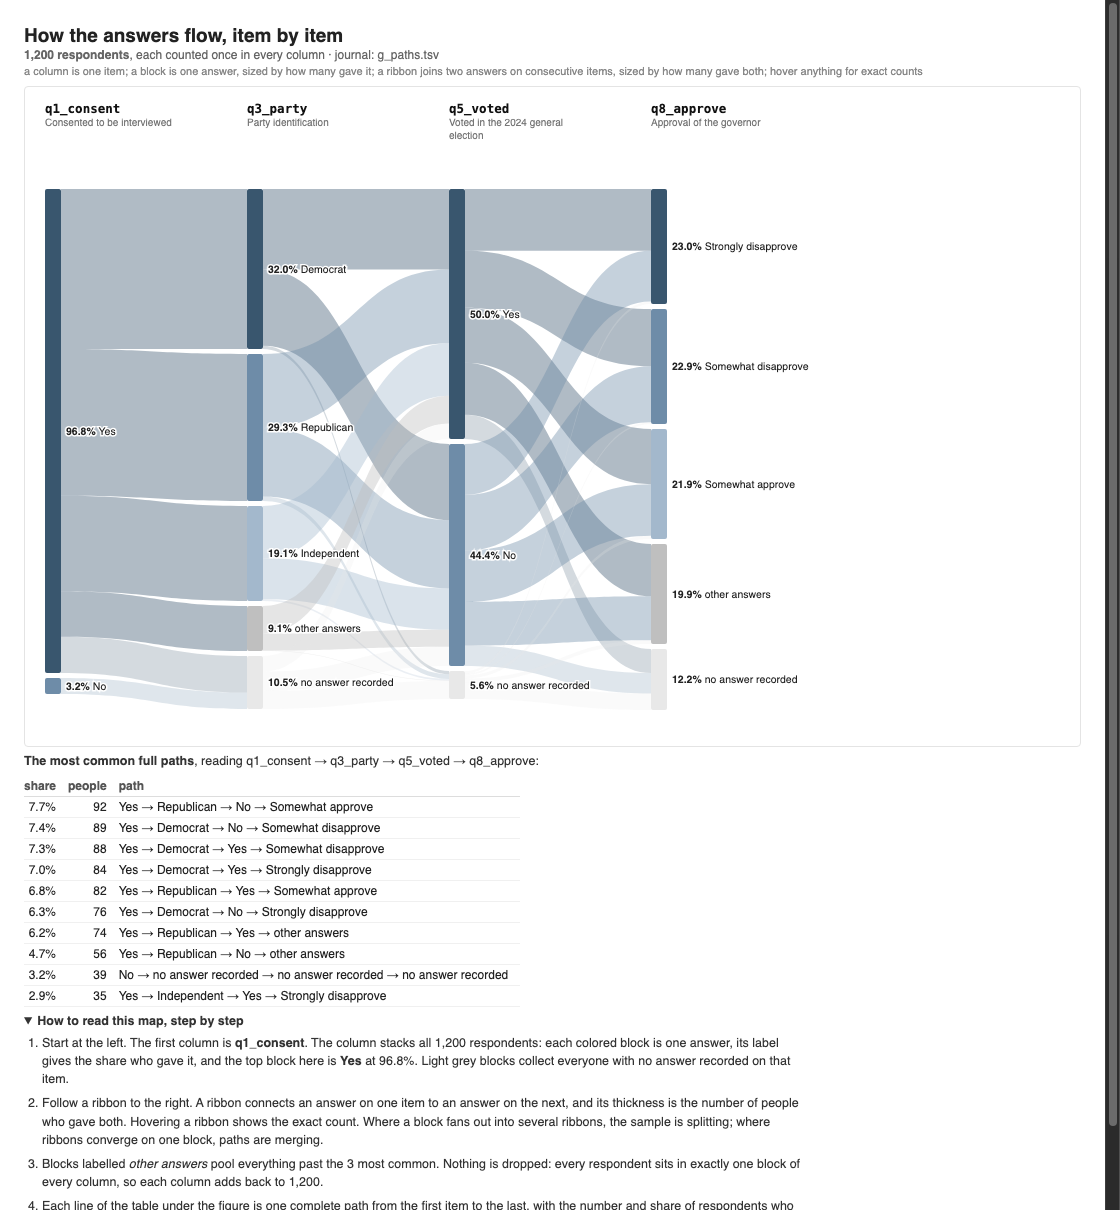
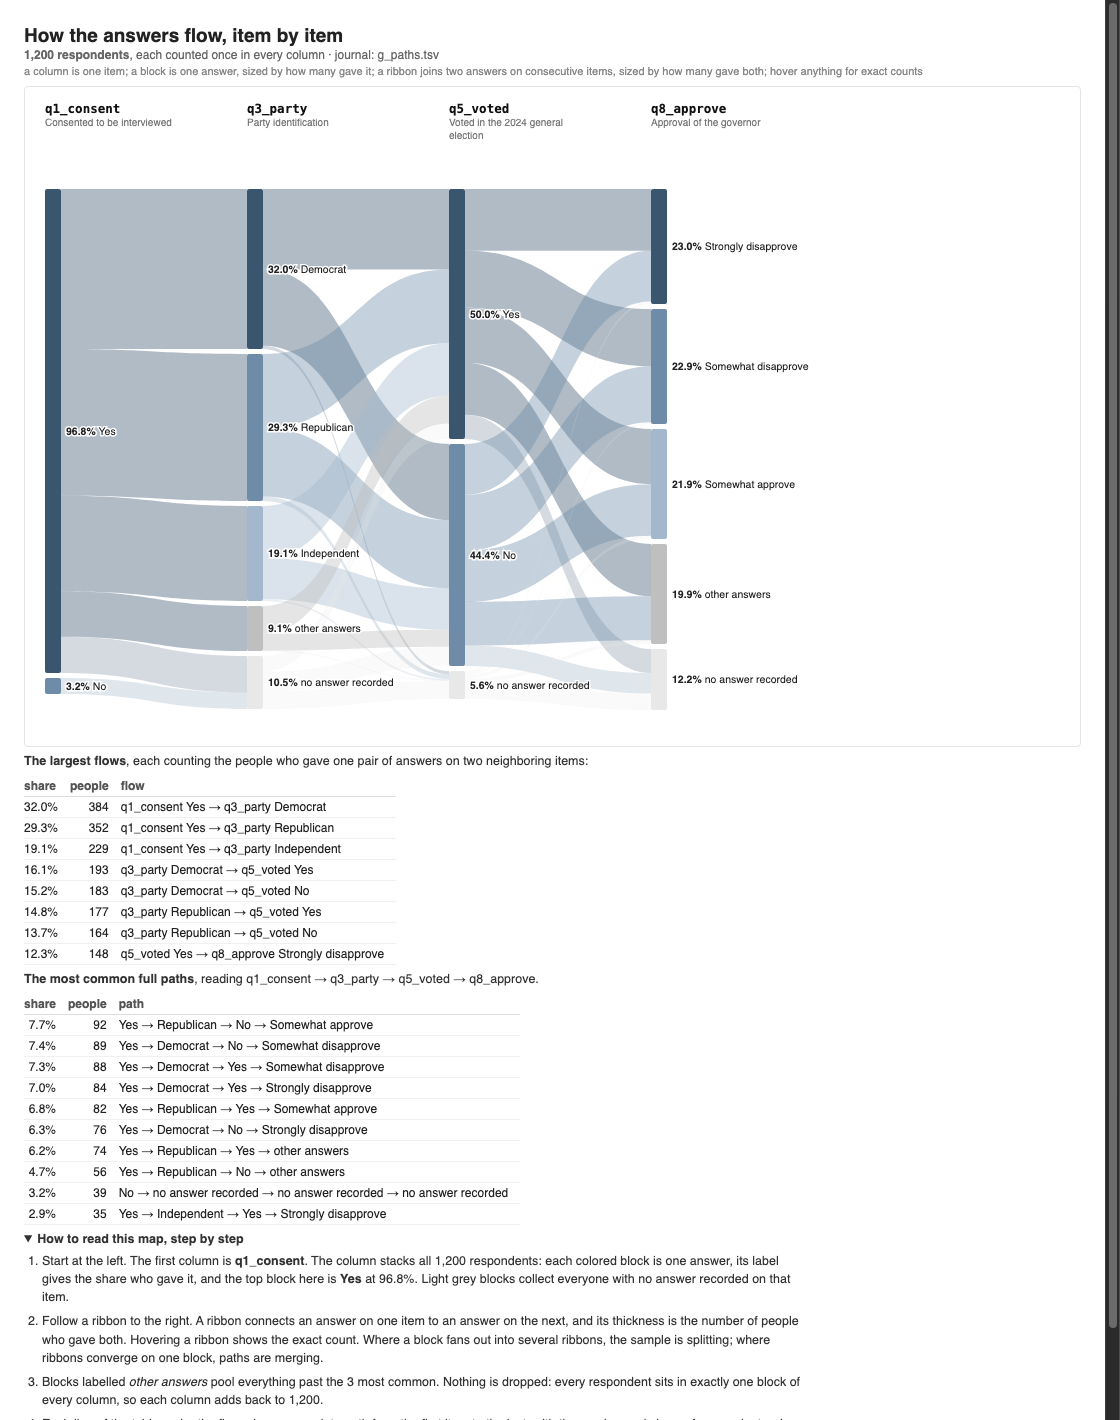
0.8.0: the paths page depends on no hover, and states its own caveats
Real use taught three lessons, and this release builds each into the
renderer.  A reader missed every tooltip on a delivered page, so the
numbers a reader needs now sit in plain text: a table under the braid
names the eight largest item-to-item flows with counts and shares, and
the svg tooltips stay for the rest.  A twelve-item braid highlighted its
three most common complete paths, faded everything else, and spotlighted
sixteen people out of 1,369, so a highlight(paths #) that covers under
five percent of the scope now says so in the caption and prints a note
suggesting the block form.  And a long braid fragments into near-unique
routes, so when half or more of the interviews follow a unique route the
complete-paths table says that and points the reader at the ribbons.

The adversarial review of the release candidate caught the fragmentation
sentence conflating two counts: the writer journaled the number of
DISTINCT routes, and the sentence presented it as the number of
interviews on unshared routes -- with 1,000 interviews on 500 routes of
two people each, it would have printed "500 of the 1,000 follow a unique
route" when the true number is zero.  The writer now journals the
singleton-interview count itself (a sequence seen once belongs to exactly
one interview), the sentence prints that count, r(n_unique) returns it,
and the battery pins the counterexample: twinned data with many distinct
routes and zero unshared ones must not trigger the sentence.
[…]

diff --git a/gallery/g_paths_hl.html b/gallery/g_paths_hl.html
@@ -28,7 +28,7 @@ h1 { font-size: 19px; margin: 0 0 2px 0; font-weight: 600; }
 <div class="sm-g-paths-hl">
 <p class="sm-cap"><b>1,200 respondents</b>, each counted once in every column &#183; journal: g_paths.tsv</p>
 <p class="sm-leg">a column is one item; a block is one answer, sized by how many gave it; a ribbon joins two answers on consecutive items, sized by how many gave both; hover anything for exact counts</p>
-<p class="sm-cap"><b>highlighted:</b> the 2 most common complete paths, together 15.1% of respondents; every other ribbon is faded, and the picked paths print bold in the table below</p>
+<p class="sm-cap"><b>highlighted:</b> the 2 most common complete paths, together 15.1% of respondents; every other ribbon is faded, and the picked paths print bold in the table below.</p>
 <div class="sm-wrap">
 <svg class="sm-svg" viewBox="0 0 836 647" width="836" height="647" xmlns="http://www.w3.org/2000/svg" role="img">
 <desc>Response-flow map of 4 survey items for 1,200 respondents. Each item is a column of blocks, one per common answer plus other answers and no answer; ribbons between columns carry the respondents who gave both answers.</desc>
@@ -262,7 +262,18 @@ h1 { font-size: 19px; margin: 0 0 2px 0; font-weight: 600; }
 <text x="641" y="590" font-family="-apple-system, Segoe UI, Helvetica, Arial, sans-serif" font-size="10.5" fill="#222" style="paint-order: stroke; stroke: #ffffff; stroke-width: 3px;"><tspan font-weight="600">12.2%</tspan> no answer recorded</text>
 </svg>
 </div>
-<p class="sm-read"><b>The most common full paths</b>, reading q1_consent &#8594; q3_party &#8594; q5_voted &#8594; q8_approve:</p>
+<p class="sm-read"><b>The largest flows</b>, each counting the people who gave one pair of answers on two neighboring items:</p>
+<table class="sm-ptbl"><tr><th>share</th><th>people</th><th>flow</th></tr>
+<tr><td class="n">32.0%</td><td class="n">384</td><td>q1_consent Yes &#8594; q3_party Democrat</td></tr>
+<tr><td class="n">29.3%</td><td class="n">352</td><td>q1_consent Yes &#8594; q3_party Republican</td></tr>
+<tr><td class="n">19.1%</td><td class="n">229</td><td>q1_consent Yes &#8594; q3_party Independent</td></tr>
+<tr><td class="n">16.1%</td><td class="n">193</td><td>q3_party Democrat &#8594; q5_voted Yes</td></tr>
+<tr><td class="n">15.2%</td><td class="n">183</td><td>q3_party Democrat &#8594; q5_voted No</td></tr>
+<tr><td class="n">14.8%</td><td class="n">177</td><td>q3_party Republican &#8594; q5_voted Yes</td></tr>
+<tr><td class="n">13.7%</td><td class="n">164</td><td>q3_party Republican &#8594; q5_voted No</td></tr>
+<tr><td class="n">12.3%</td><td class="n">148</td><td>q5_voted Yes &#8594; q8_approve Strongly disapprove</td></tr>
+</table>
+<p class="sm-read"><b>The most common full paths</b>, reading q1_consent &#8594; q3_party &#8594; q5_voted &#8594; q8_approve.</p>
 <table class="sm-ptbl"><tr><th>share</th><th>people</th><th>path</th></tr>
 <tr class="hl"><td class="n">7.7%</td><td class="n">92</td><td>Yes &#8594; Republican &#8594; No &#8594; Somewhat approve</td></tr>
 <tr class="hl"><td class="n">7.4%</td><td class="n">89</td><td>Yes &#8594; Democrat &#8594; No &#8594; Somewhat disapprove</td></tr>

diff --git a/gallery/g_paths.html b/gallery/g_paths.html
@@ -261,7 +261,18 @@ h1 { font-size: 19px; margin: 0 0 2px 0; font-weight: 600; }
 <text x="641" y="590" font-family="-apple-system, Segoe UI, Helvetica, Arial, sans-serif" font-size="10.5" fill="#222" style="paint-order: stroke; stroke: #ffffff; stroke-width: 3px;"><tspan font-weight="600">12.2%</tspan> no answer recorded</text>
 </svg>
 </div>
-<p class="sm-read"><b>The most common full paths</b>, reading q1_consent &#8594; q3_party &#8594; q5_voted &#8594; q8_approve:</p>
+<p class="sm-read"><b>The largest flows</b>, each counting the people who gave one pair of answers on two neighboring items:</p>
+<table class="sm-ptbl"><tr><th>share</th><th>people</th><th>flow</th></tr>
+<tr><td class="n">32.0%</td><td class="n">384</td><td>q1_consent Yes &#8594; q3_party Democrat</td></tr>
+<tr><td class="n">29.3%</td><td class="n">352</td><td>q1_consent Yes &#8594; q3_party Republican</td></tr>
+<tr><td class="n">19.1%</td><td class="n">229</td><td>q1_consent Yes &#8594; q3_party Independent</td></tr>
+<tr><td class="n">16.1%</td><td class="n">193</td><td>q3_party Democrat &#8594; q5_voted Yes</td></tr>
+<tr><td class="n">15.2%</td><td class="n">183</td><td>q3_party Democrat &#8594; q5_voted No</td></tr>
+<tr><td class="n">14.8%</td><td class="n">177</td><td>q3_party Republican &#8594; q5_voted Yes</td></tr>
+<tr><td class="n">13.7%</td><td class="n">164</td><td>q3_party Republican &#8594; q5_voted No</td></tr>
+<tr><td class="n">12.3%</td><td class="n">148</td><td>q5_voted Yes &#8594; q8_approve Strongly disapprove</td></tr>
+</table>
+<p class="sm-read"><b>The most common full paths</b>, reading q1_consent &#8594; q3_party &#8594; q5_voted &#8594; q8_approve.</p>
 <table class="sm-ptbl"><tr><th>share</th><th>people</th><th>path</th></tr>
 <tr><td class="n">7.7%</td><td class="n">92</td><td>Yes &#8594; Republican &#8594; No &#8594; Somewhat approve</td></tr>
 <tr><td class="n">7.4%</td><td class="n">89</td><td>Yes &#8594; Democrat &#8594; No &#8594; Somewhat disapprove</td></tr>

diff --git a/gallery/g_profile.html b/gallery/g_profile.html
@@ -427,7 +427,7 @@ status: partial
 <tr class="sm-tr"><td>13</td><th scope="row">q13_income</th><td>941 (78.4%)</td><td>220</td><td>39</td><td>q1_consent==0</td></tr>
 </tbody></table>
 </details>
-<div class="sm-foot">surveymap &#183; journal g_profile.tsv &#183; generated 27 Aug 2026 17:09:32 &#183; Stata 19.5 MP</div>
+<div class="sm-foot">surveymap &#183; journal g_profile.tsv &#183; generated 28 Aug 2026 01:57:46 &#183; Stata 19.5 MP</div>
 </div>
 </body>
 </html>

diff --git a/gallery/g_responses.html b/gallery/g_responses.html
@@ -187,7 +187,7 @@ type byte
 <tr class="sm-tr"><td>5</td><th scope="row">q13_income</th><td>941 (78.4%)</td><td>220</td><td>39</td><td>&#8212;</td></tr>
 </tbody></table>
 </details>
-<div class="sm-foot">surveymap &#183; journal g_responses.tsv &#183; generated 27 Aug 2026 17:09:31 &#183; Stata 19.5 MP</div>
+<div class="sm-foot">surveymap &#183; journal g_responses.tsv &#183; generated 28 Aug 2026 01:57:46 &#183; Stata 19.5 MP</div>
 </div>
 </body>
 </html>

diff --git a/gallery/g_map.html b/gallery/g_map.html
@@ -482,7 +482,7 @@ type byte
 <tr class="sm-tr"><td>12</td><th scope="row">q13_income</th><td>941 (80.8%)</td><td>220</td><td>0</td><td>&#8212;</td></tr>
 </tbody></table>
 </details>
-<div class="sm-foot">surveymap &#183; journal g_branched.tsv &#183; generated 27 Aug 2026 17:09:30 &#183; Stata 19.5 MP</div>
+<div class="sm-foot">surveymap &#183; journal g_branched.tsv &#183; generated 28 Aug 2026 01:57:45 &#183; Stata 19.5 MP</div>
 </div>
 </body>
 </html>

diff --git a/gallery/g_map_vertical.html b/gallery/g_map_vertical.html
@@ -500,7 +500,7 @@ type byte
 <tr class="sm-tr"><td>12</td><th scope="row">q13_income</th><td>941 (80.8%)</td><td>220</td><td>0</td><td>&#8212;</td></tr>
 </tbody></table>
 </details>
-<div class="sm-foot">surveymap &#183; journal g_branched.tsv &#183; generated 27 Aug 2026 17:09:30 &#183; Stata 19.5 MP</div>
+<div class="sm-foot">surveymap &#183; journal g_branched.tsv &#183; generated 28 Aug 2026 01:57:45 &#183; Stata 19.5 MP</div>
 </div>
 </body>
 </html>

diff --git a/gallery/g_map_weighted.html b/gallery/g_map_weighted.html
@@ -496,7 +496,7 @@ type byte
 <tr class="sm-tr"><td>13</td><th scope="row">q13_income</th><td>941 (80.8%)</td><td>220</td><td>0</td><td>&#8212;</td></tr>
 </tbody></table>
 </details>
-<div class="sm-foot">surveymap &#183; journal g_weighted.tsv &#183; generated 27 Aug 2026 17:09:30 &#183; Stata 19.5 MP</div>
+<div class="sm-foot">surveymap &#183; journal g_weighted.tsv &#183; generated 28 Aug 2026 01:57:45 &#183; Stata 19.5 MP</div>
 </div>
 </body>
 </html>

diff --git a/gallery/g_scoped.html b/gallery/g_scoped.html
@@ -188,7 +188,7 @@ type byte
 <tr class="sm-tr"><td>5</td><th scope="row">q13_income</th><td>664 (77.8%)</td><td>150</td><td>39</td><td>&#8212;</td></tr>
 </tbody></table>
 </details>
-<div class="sm-foot">surveymap &#183; journal g_scoped.tsv &#183; generated 27 Aug 2026 17:09:31 &#183; Stata 19.5 MP</div>
+<div class="sm-foot">surveymap &#183; journal g_scoped.tsv &#183; generated 28 Aug 2026 01:57:46 &#183; Stata 19.5 MP</div>
 </div>
 </body>
 </html>

diff --git a/gallery/g_frag.html b/gallery/g_frag.html
@@ -473,5 +473,5 @@ type byte
 <tr class="sm-tr"><td>12</td><th scope="row">q13_income</th><td>941 (80.8%)</td><td>220</td><td>0</td><td>&#8212;</td></tr>
 </tbody></table>
 </details>
-<div class="sm-foot">surveymap &#183; journal g_branched.tsv &#183; generated 27 Aug 2026 17:09:30 &#183; Stata 19.5 MP</div>
+<div class="sm-foot">surveymap &#183; journal g_branched.tsv &#183; generated 28 Aug 2026 01:57:45 &#183; Stata 19.5 MP</div>
 </div>

diff --git a/README.md b/README.md
@@ -73,7 +73,7 @@ Three kinds of blank are counted separately throughout:
 
 A survey with little skip logic draws as a single line of boxes, which answers who was asked what and nothing else. The starting points below turn that line into paths a reader can follow, and they combine freely.
 
-**The response braid.** `surveymap paths` follows the answers instead of the routing: every item becomes a column, each of its `top(k)` most common answers a block, and a ribbon between two blocks carries the respondents who gave both answers on consecutive items. The remainder pools into *other answers*, and *no answer recorded* holds everyone with nothing on the item. Every respondent in scope sits in exactly one block of every column, so each column adds back to the sample; the battery asserts it. Under the figure, the ten most common complete paths, end to end.
+**The response braid.** `surveymap paths` follows the answers instead of the routing: every item becomes a column, each of its `top(k)` most common answers a block, and a ribbon between two blocks carries the respondents who gave both answers on consecutive items. The remainder pools into *other answers*, and *no answer recorded* holds everyone with nothing on the item. Every respondent in scope sits in exactly one block of every column, so each column adds back to the sample; the battery asserts it. Under the figure, a visible table of the largest item-to-item flows, then the ten most common complete paths end to end. The page states its own caveats: when half or more of the interviews follow a unique route, it says so and points the reader at the ribbons, and a `highlight(paths #)` that covers only a sliver of the sample says that too.
 
 <img width="900" alt="surveymap paths response braid" src="images/surveymap_paths.png" />
 
@@ -425,7 +425,7 @@ cd tests
 do surveymap_pkgtest.do
 ```
 
-373 checks across 26 blocks, run on Stata 16.1 and on the current release, covering the fixture's routing truths, the branch parser, banding a continuous gate, the derived conditions and the ones the package refuses to build, the conservation arithmetic, the drawn verify disagreement, the band chart at 230 items, the response rows and their exact partition of the answered count, the response braid's conservation (columns, ribbons and complete paths all partition the scope), the scope round-trip to the page, lane partitioning, pruning at scan and at draw time, weights, `exclude()`/`nostrings`, `verify()`, both layouts of all four renderers, the Excel tracker, the fragment's scoping guarantee, and both directions of the `datadictionary` bridge.
+379 checks across 26 blocks, run on Stata 16.1 and on the current release, covering the fixture's routing truths, the branch parser, banding a continuous gate, the derived conditions and the ones the package refuses to build, the conservation arithmetic, the drawn verify disagreement, the band chart at 230 items, the response rows and their exact partition of the answered count, the response braid's conservation (columns, ribbons and complete paths all partition the scope), the scope round-trip to the page, lane partitioning, pruning at scan and at draw time, weights, `exclude()`/`nostrings`, `verify()`, both layouts of all four renderers, the Excel tracker, the fragment's scoping guarantee, and both directions of the `datadictionary` bridge.
 
 The gallery is a second, coarser test: it rebuilds every example artifact from one fake survey and counts its own failures, because a Stata do-file can abort and still leave the runner reporting success.
 

diff --git a/CHANGELOG.md b/CHANGELOG.md
@@ -2,6 +2,31 @@
 
 All notable changes to surveymap. Dates are the day the work landed locally.
 
+## 0.8.0 - 2026-08-28
+
+### Added
+
+- **The paths page depends on no hover.** A visible table under the braid
+  names the eight largest item-to-item flows with counts and shares, so
+  the numbers a reader needs are in plain text; the svg tooltips stay for
+  the rest.
+- **The page states its own caveats.** When half or more of the interviews
+  follow a unique route, the complete-paths table says so
+  and points the reader at the ribbons, where each flow counts well.
+  When highlight(paths #) picks paths that together cover under five
+  percent of the scope, the caption says that, and the run prints a note
+  suggesting the block form of highlight() instead. Both came out of
+  real use: a twelve-item braid highlighted its three most common
+  complete paths, faded everything else, and spotlighted sixteen
+  people out of 1,369.
+
+### Testing
+
+- The battery grows to cover the flow table, both directions of the
+  fragmentation sentence (present when routes are mostly unique, absent
+  when they concentrate), and both directions of the small-slice caveat,
+  each asserted from the same journal the page was drawn from.
+
 ## 0.7.0 - 2026-08-27
 
 ### Added

diff --git a/gallery/g_map.md b/gallery/g_map.md
@@ -2,11 +2,11 @@
 
 Items run left to right in questionnaire order; a gate fans the sample into lanes that rejoin the spine at the end of its segment. A dashed node is a cell the lane was routed around. `!!` marks a warning.
 
-*surveymap _sm_rendertext 0.1.0 - journal g_branched.tsv - rendered 27 Aug 2026 17:09:30 - Stata 19.5 MP*
+*surveymap _sm_rendertext 0.1.0 - journal g_branched.tsv - rendered 28 Aug 2026 01:57:45 - Stata 19.5 MP*
 
 ```mermaid
 %%{init: {'theme':'base','themeVariables':{'fontFamily':'Helvetica, Arial, sans-serif','fontSize':'14px','primaryColor':'#ffffff','primaryTextColor':'#202020','primaryBorderColor':'#606060','lineColor':'#606060','secondaryColor':'#f4f4f4','tertiaryColor':'#fafafa','edgeLabelBackground':'#ffffff','titleColor':'#202020'},'flowchart':{'curve':'linear'}}}%%
-%% surveymap _sm_rendertext 0.1.0 - journal g_branched.tsv - rendered 27 Aug 2026 17:09:30 - Stata 19.5 MP
+%% surveymap _sm_rendertext 0.1.0 - journal g_branched.tsv - rendered 28 Aug 2026 01:57:45 - Stata 19.5 MP
 flowchart LR
   accTitle: surveymap flow of g_branched.tsv
   accDescr {
